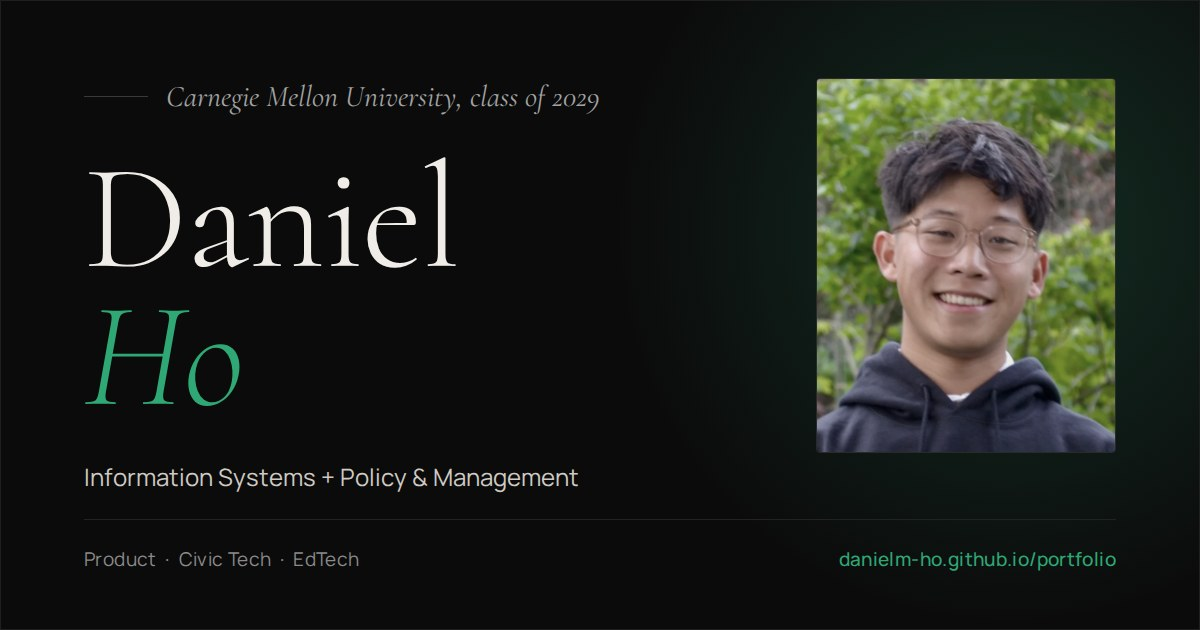
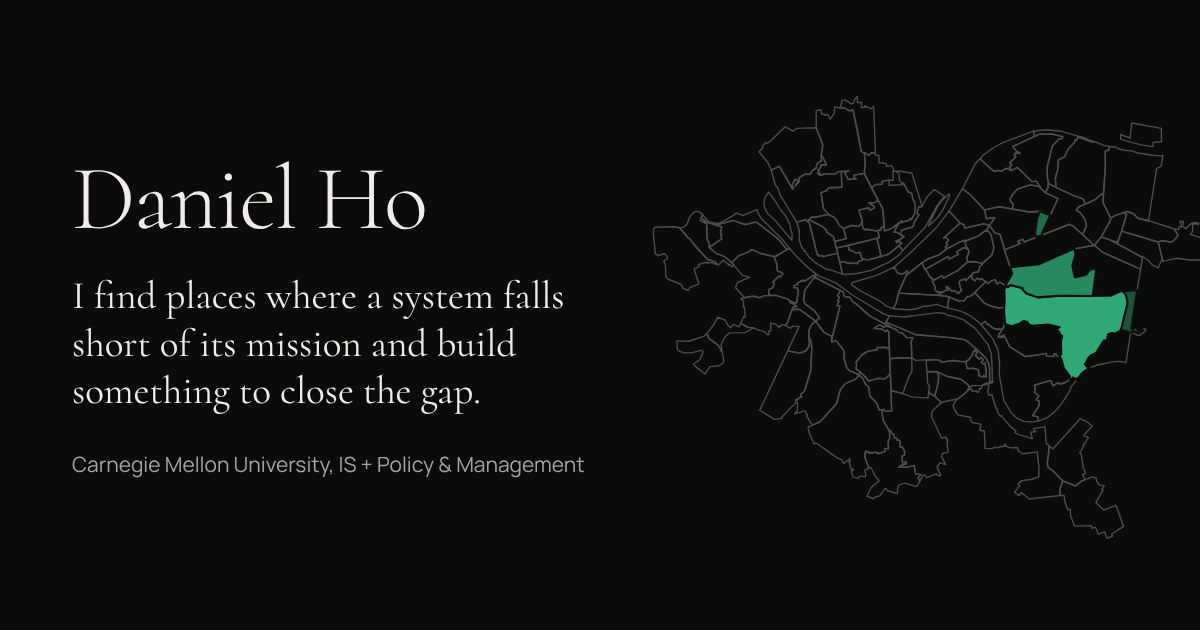
New link preview image: name, statement and the Pittsburgh map (V8)
- static/og/og-home.jpg is regenerated from tools/og-home.html, which reads the
  statement, map and colours from the site's own files so it cannot drift
- Homepage meta description and share text now lead with Daniel's statement

Claude-Session: https://claude.ai/code/session_01TiCCmG51YjzYmZAWajzTAW

diff --git a/tools/og-home.html b/tools/og-home.html
@@ -1,0 +1,58 @@
+<!DOCTYPE html>
+<!-- Source for static/og/og-home.jpg, the image LinkedIn, Slack and iMessage
+     show when the homepage is shared.
+
+     It reads the statement from static/content.js, the map from
+     static/pgh-map.js and the colours and fonts from static/style.css, so it
+     never drifts from the site.
+
+     To regenerate after changing any of those: serve the repo
+     (python3 -m http.server), open /tools/og-home.html in a browser window
+     exactly 1200 x 630, and save a screenshot as static/og/og-home.jpg. -->
+<html lang="en">
+<head>
+<meta charset="UTF-8">
+<meta name="robots" content="noindex">
+<title>Link preview image</title>
+<link rel="preconnect" href="https://fonts.googleapis.com">
+<link rel="preconnect" href="https://fonts.gstatic.com" crossorigin>
+<link href="https://fonts.googleapis.com/css2?family=Cormorant:ital,wght@0,300;0,400;0,500;1,300;1,400&family=Manrope:wght@400;500;600;700&display=swap" rel="stylesheet">
+<link rel="stylesheet" href="../static/style.css">
+<style>
+  html, body { margin: 0; width: 1200px; height: 630px; overflow: hidden; background: var(--bg); }
+  .og { box-sizing: border-box; width: 1200px; height: 630px; padding: 64px 0 60px 72px; display: grid; grid-template-columns: 560px 1fr; column-gap: 24px; align-items: center; color: var(--tx); }
+  .og-name { font-family: var(--serif); font-weight: 300; font-size: 92px; line-height: .95; letter-spacing: -.02em; margin: 0 0 30px; }
+  .og-lede { font-family: var(--serif); font-weight: 400; font-size: 39px; line-height: 1.22; margin: 0 0 34px; text-wrap: balance; }
+  .og-meta { font-family: var(--sans); font-size: 21px; line-height: 1.45; color: var(--mu); margin: 0; }
+  .og-map { width: 560px; margin-left: -6px; }
+  .og-map svg { display: block; width: 100%; height: auto; overflow: visible; }
+  .og-map path { fill: none; stroke: var(--map-line); stroke-width: 1.4; stroke-linejoin: round; vector-effect: non-scaling-stroke; }
+  .og-map path.m { fill: var(--ac); stroke: var(--bg); stroke-width: 2; }
+  .og-map path.m[data-r="2"] { fill-opacity: .8; }
+  .og-map path.m[data-r="3"] { fill-opacity: .62; }
+  .og-map path.m[data-r="4"] { fill-opacity: .46; }
+</style>
+</head>
+<body>
+<div class="og">
+  <div>
+    <h1 class="og-name" id="name"></h1>
+    <p class="og-lede" id="lede"></p>
+    <p class="og-meta" id="meta"></p>
+  </div>
+  <div class="og-map" id="map"></div>
+</div>
+<script src="../static/content.js"></script>
+<script src="../static/pgh-map.js"></script>
+<script>
+  document.getElementById('name').textContent = SITE.name;
+  document.getElementById('lede').textContent = CONTENT.hero.statement.replace(/\s+/g, ' ');
+  document.getElementById('meta').textContent = `${SITE.university}, ${SITE.programShort}`;
+  const rank = new Map(CONTENT.hero.map.matches.map((m, i) => [m.hood, i + 1]));
+  const hoods = [...PGH_MAP.hoods].sort((a, b) => (rank.get(a.n) || 0) - (rank.get(b.n) || 0));
+  document.getElementById('map').innerHTML =
+    `<svg viewBox="-6 -6 ${PGH_MAP.w + 12} ${PGH_MAP.h + 12}">${hoods.map(h =>
+      `<path d="${h.d}"${rank.has(h.n) ? ` class="m" data-r="${rank.get(h.n)}"` : ''}/>`).join('')}</svg>`;
+</script>
+</body>
+</html>

diff --git a/index.html b/index.html
@@ -13,20 +13,20 @@
        iMessage and Slack expect). -->
   <!-- META:START -->
   <title>Daniel Ho | Information Systems at CMU | Product & Civic Tech</title>
-  <meta name="description" content="Daniel Ho, sophomore at Carnegie Mellon studying Information Systems and Policy & Management. Undergraduate researcher and builder of civic and education tools.">
+  <meta name="description" content="Daniel Ho, sophomore at Carnegie Mellon studying Information Systems and Policy & Management. I find places where a system falls short of its mission and build something to close the gap.">
   <link rel="canonical" href="https://danielm-ho.github.io/portfolio/">
   <meta property="og:site_name" content="Daniel Ho">
   <meta property="og:title" content="Daniel Ho | Information Systems at CMU">
-  <meta property="og:description" content="CMU Information Systems and Policy & Management student, undergraduate researcher, and builder of civic and education tools. Class of 2029.">
+  <meta property="og:description" content="I find places where a system falls short of its mission and build something to close the gap. Information Systems and Policy & Management at Carnegie Mellon, Class of 2029.">
   <meta property="og:image" content="https://danielm-ho.github.io/portfolio/static/og/og-home.jpg">
   <meta property="og:image:width" content="1200">
   <meta property="og:image:height" content="630">
-  <meta property="og:image:alt" content="Daniel Ho, Carnegie Mellon University, Information Systems + Policy & Management">
+  <meta property="og:image:alt" content="Daniel Ho. I find places where a system falls short of its mission and build something to close the gap. Beside the text, an outline map of Pittsburgh's neighborhoods with four filled in.">
   <meta property="og:url" content="https://danielm-ho.github.io/portfolio/">
   <meta property="og:type" content="website">
   <meta name="twitter:card" content="summary_large_image">
   <meta name="twitter:title" content="Daniel Ho | Information Systems at CMU">
-  <meta name="twitter:description" content="CMU Information Systems and Policy & Management student, undergraduate researcher, and builder of civic and education tools. Class of 2029.">
+  <meta name="twitter:description" content="I find places where a system falls short of its mission and build something to close the gap. Information Systems and Policy & Management at Carnegie Mellon, Class of 2029.">
   <meta name="twitter:image" content="https://danielm-ho.github.io/portfolio/static/og/og-home.jpg">
   <!-- META:END -->
   <meta name="theme-color" content="#0b0b0b">
